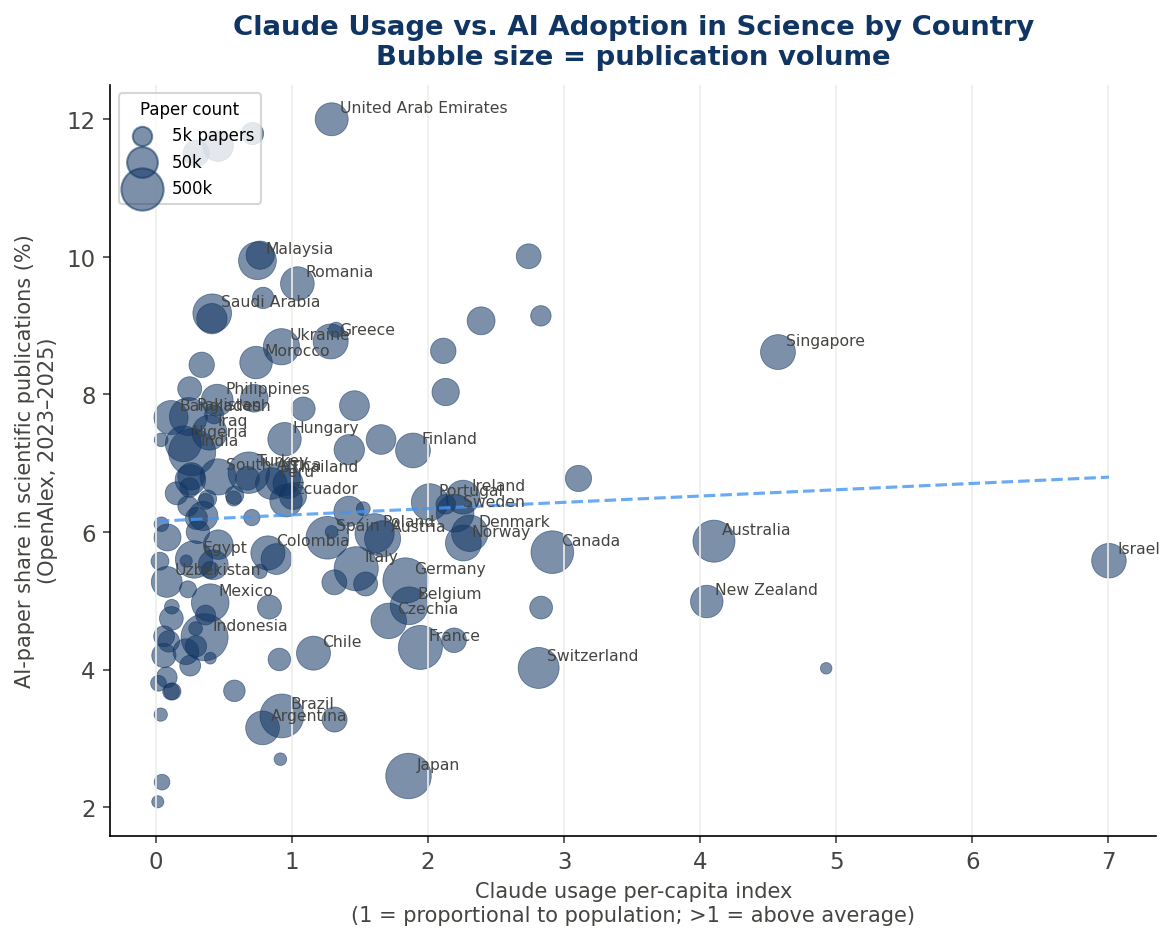
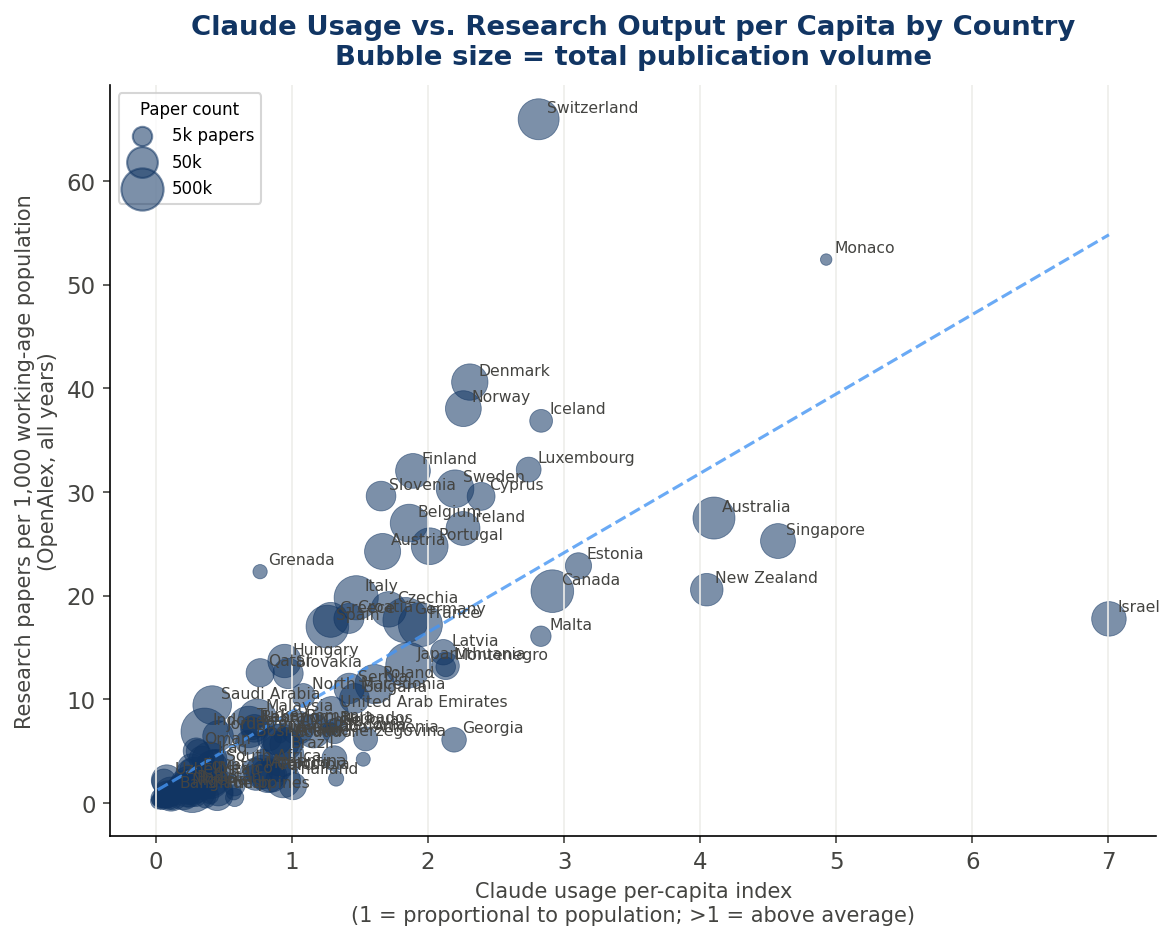
Switch scatter Y-axis to papers per capita; move to end of overview page

diff --git a/generate_figures.py b/generate_figures.py
@@ -384,51 +384,56 @@ def fig_claude_vs_science_scatter():
     ANTHROPIC_FILE = PRIV / ".." / "data" / "anthropic" / \
         "aei_enriched_claude_ai_2025-08-04_to_2025-08-11.csv"
 
-    # Load Anthropic country-level Claude usage per-capita index
     aei = pd.read_csv(ANTHROPIC_FILE)
-    claude = (aei[(aei["geography"] == "country") &
-                  (aei["facet"] == "country") &
-                  (aei["variable"] == "usage_per_capita_index")]
-              [["geo_id", "geo_name", "value"]]
-              .copy())
-    claude.columns = ["iso3", "claude_name", "claude_index"]
+
+    def get_var(var):
+        return (aei[(aei["geography"] == "country") &
+                    (aei["facet"] == "country") &
+                    (aei["variable"] == var)]
+                [["geo_id", "geo_name", "value"]]
+                .rename(columns={"value": var}))
+
+    claude_idx = get_var("usage_per_capita_index")
+    pop        = get_var("working_age_pop")
+
+    claude = claude_idx.merge(pop[["geo_id", "working_age_pop"]], on="geo_id", how="left")
+    claude.columns = ["iso3", "claude_name", "claude_index", "working_age_pop"]
     claude["name_key"] = claude["claude_name"].str.strip().str.lower()
 
-    # Load OpenAlex AI-in-science country data
+    # Load OpenAlex country data (paper_count for papers-per-capita)
     oa = pd.read_csv(PRIV / "openalex" / "field_stats" / "ai_rankings_country.csv")
     oa["name_key"] = oa["country_name"].str.strip().str.lower()
 
-    # Merge on country name
     df = claude.merge(oa, on="name_key", how="inner")
-    df["ai_share_pct"] = df["ai_share"]   # already in % from the source
-    df = df[(df["paper_count"] >= 1000) & (df["claude_index"] > 0)].copy()
+    df["papers_per_capita"] = df["paper_count"] / df["working_age_pop"] * 1000  # per 1k working-age
+    df = df[(df["paper_count"] >= 1000) &
+            (df["claude_index"] > 0) &
+            (df["working_age_pop"] > 0)].copy()
 
-    # Bubble size = paper count (log scale for legibility)
+    # Bubble size = total paper count (log scale)
     sizes = (np.log10(df["paper_count"]) - 2) ** 2 * 30
     sizes = sizes.clip(lower=10)
 
-    # Label only the most prominent countries
-    label_mask = (df["paper_count"] >= 50000) | (df["claude_index"] >= 5) | \
-                 (df["ai_share_pct"] >= 15)
+    # Label prominent countries
+    label_mask = (df["paper_count"] >= 50000) | \
+                 (df["claude_index"] >= 5) | \
+                 (df["papers_per_capita"] >= 5)
     label_countries = df[label_mask]
 
     fig, ax = plt.subplots(figsize=(9, 6.5))
-    sc = ax.scatter(df["claude_index"], df["ai_share_pct"],
-                    s=sizes, c=LABLUE, alpha=0.55, linewidths=0.4,
-                    edgecolors=LABLUE)
+    ax.scatter(df["claude_index"], df["papers_per_capita"],
+               s=sizes, c=LABLUE, alpha=0.55, linewidths=0.4, edgecolors=LABLUE)
 
-    # Label selected countries
     for _, row in label_countries.iterrows():
         ax.annotate(row["country_name"],
-                    xy=(row["claude_index"], row["ai_share_pct"]),
+                    xy=(row["claude_index"], row["papers_per_capita"]),
                     xytext=(4, 2), textcoords="offset points",
                     fontsize=7.5, color=GRAY1, va="bottom")
 
     # Trend line
-    from numpy.polynomial import polynomial as P
     mask = df["claude_index"].between(0.01, 20)
     if mask.sum() > 10:
-        x, y = df.loc[mask, "claude_index"], df.loc[mask, "ai_share_pct"]
+        x, y = df.loc[mask, "claude_index"], df.loc[mask, "papers_per_capita"]
         coef = np.polyfit(x, y, 1)
         x_fit = np.linspace(x.min(), x.max(), 200)
         ax.plot(x_fit, np.polyval(coef, x_fit),
@@ -436,14 +441,13 @@ def fig_claude_vs_science_scatter():
 
     ax.set_xlabel("Claude usage per-capita index\n(1 = proportional to population; >1 = above average)",
                   color=GRAY1, fontsize=10)
-    ax.set_ylabel("AI-paper share in scientific publications (%)\n(OpenAlex, 2023–2025)",
+    ax.set_ylabel("Research papers per 1,000 working-age population\n(OpenAlex, all years)",
                   color=GRAY1, fontsize=10)
-    ax.set_title("Claude Usage vs. AI Adoption in Science by Country\n"
-                 "Bubble size = publication volume",
+    ax.set_title("Claude Usage vs. Research Output per Capita by Country\n"
+                 "Bubble size = total publication volume",
                  color=LABLUE, fontweight="bold", pad=10)
     ax.tick_params(colors=GRAY1)
 
-    # Bubble size legend
     for papers, label in [(5000, "5k papers"), (50000, "50k"), (500000, "500k")]:
         s = (np.log10(papers) - 2) ** 2 * 30
         ax.scatter([], [], s=max(s, 10), c=LABLUE, alpha=0.55,

diff --git a/DATA_OVERVIEW.md b/DATA_OVERVIEW.md
@@ -20,10 +20,6 @@ Figures are generated by [`generate_figures.py`](generate_figures.py) and can be
 
 <p align="center"><img src="https://raw.githubusercontent.com/lukasalthoff/scinet/main/figures/tasks_by_level.png" alt="Tasks by level" width="600"/></p>
 
-**Claude usage vs. AI adoption in science** — scatter plot comparing country-level Claude usage intensity (Anthropic Economic Index, August 2025) against AI-paper share in scientific publications (OpenAlex, 2023–2025). Each bubble represents one country, sized by publication volume. Countries above the trend line adopt AI in their research more than their general Claude usage would predict.
-
-<p align="center"><img src="https://raw.githubusercontent.com/lukasalthoff/scinet/main/figures/claude_vs_science_scatter.png" alt="Claude usage vs AI in science by country" width="800"/></p>
-
 ---
 
 ## Research Scale
@@ -62,3 +58,10 @@ SciNet computes a verifiability index for each subfield based on three component
 
 <p align="center"><img src="https://raw.githubusercontent.com/lukasalthoff/scinet/main/figures/ai_adoption_country.png" alt="AI adoption by country" width="900"/></p>
 
+---
+
+## Claude Usage and Research Output
+
+**Claude usage vs. research output per capita** — scatter plot comparing country-level Claude usage intensity (Anthropic Economic Index, August 2025) against total scientific papers produced per 1,000 working-age residents ([OpenAlex](https://openalex.org/)). Each bubble represents one country, sized by total publication volume. Countries above the trend line produce more research per capita than their Claude usage would predict — and vice versa.
+
+<p align="center"><img src="https://raw.githubusercontent.com/lukasalthoff/scinet/main/figures/claude_vs_science_scatter.png" alt="Claude usage vs research output per capita" width="800"/></p>
